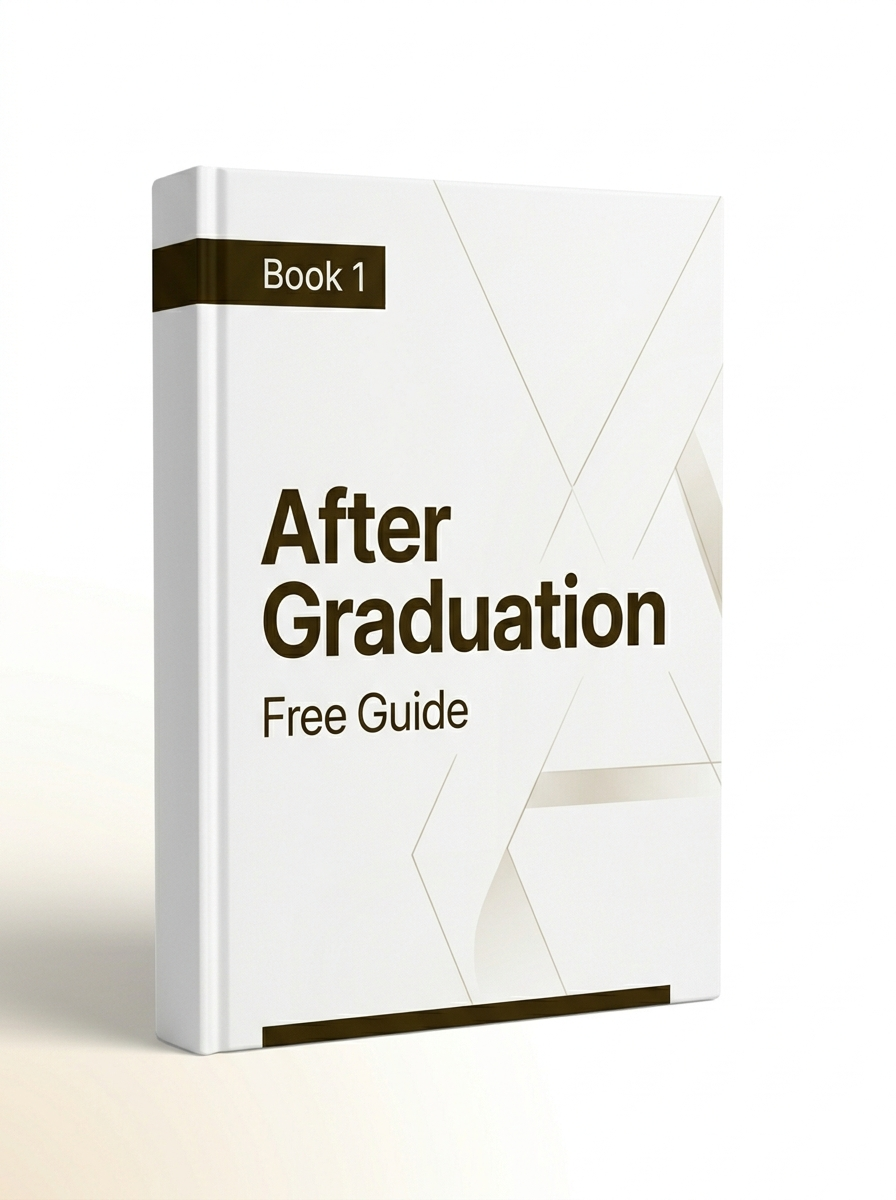
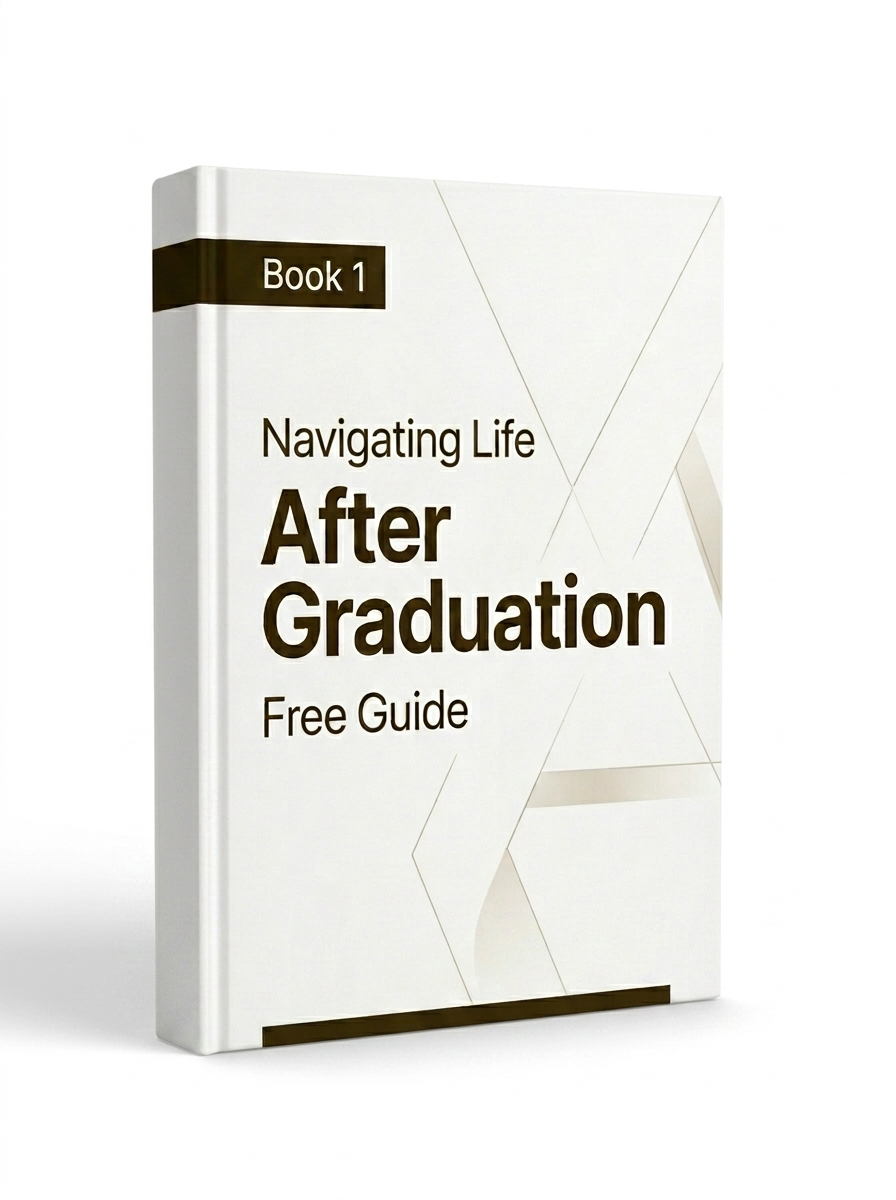
added introduction to investing

Changed region(s): [[0.0, 0.7092, 0.8125, 1.0], [0.2812, 0.3392, 0.5938, 0.4008]]

diff --git a/src/views/Home.vue b/src/views/Home.vue
@@ -303,7 +303,7 @@ const valueCards = [
 
 const products = [
   {
-    title: 'After Graduation',
+    title: 'Navigating Life After Graduation',
     tag: 'Free Guide',
     tagColor: 'primary',
     description: 'A structured guide to help you understand what to do after graduation, avoid financial confusion, and build a clear personal money direction.',